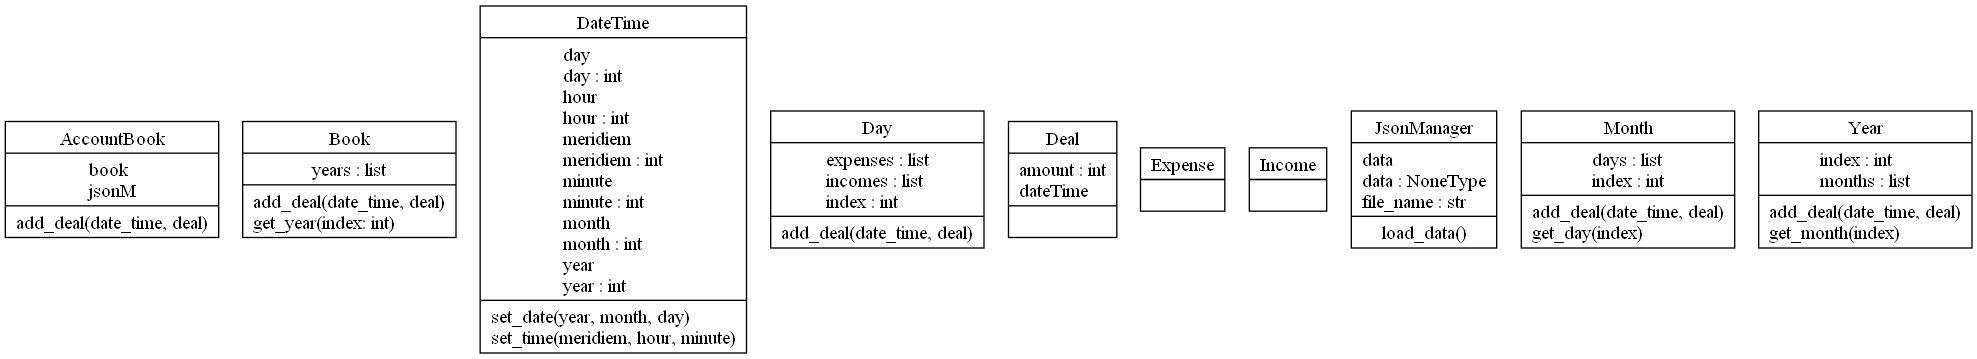
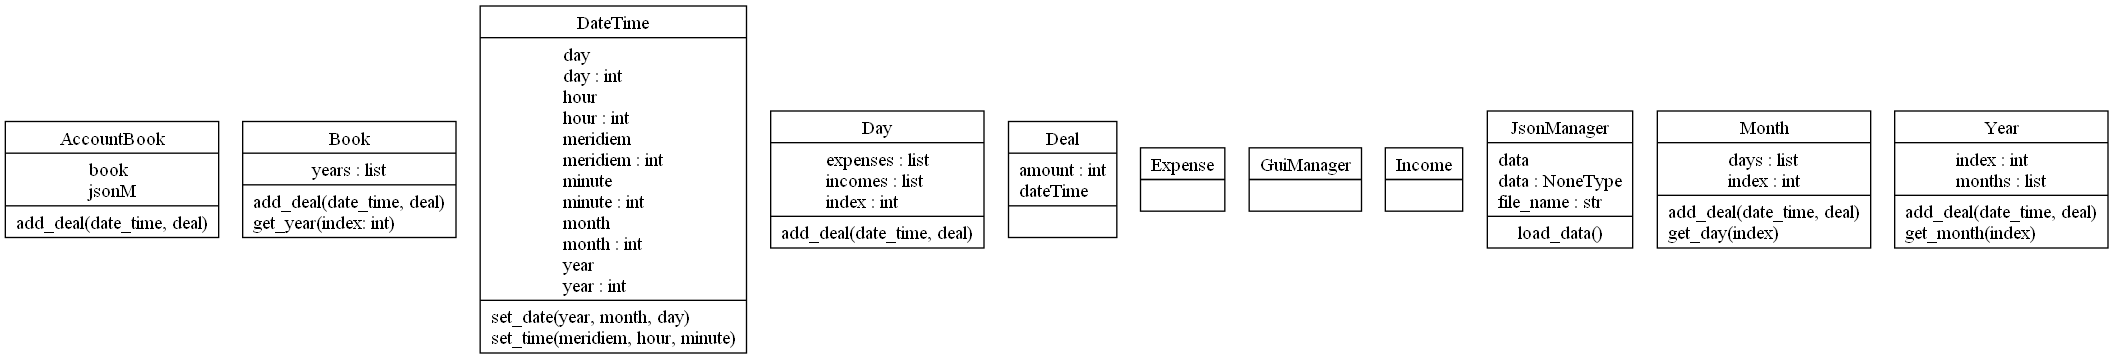
Creating simple gui.

diff --git a/GuiManager.py b/GuiManager.py
@@ -1,0 +1,52 @@
+
+from GuiWidgetHelper import *
+from PyQt5.QtCore import Qt, QDate
+from PyQt5.QtGui import QIcon
+import sys
+from AccountBook import AccountBook
+
+class GuiManager(QWidget):
+	def __init__(self):
+		self.ac = AccountBook()
+		self.__init_window()
+		self.__init_layout()
+
+	def __init_window(self):
+		super().__init__()
+
+	def __init_layout(self):
+
+		hbox = QHBoxLayout()
+		hbox.addLayout(self.__initCalenderLayout())
+		hbox.addLayout(self.__initInputLayout())
+		self.setLayout(hbox)
+
+	def __initInputLayout(self):
+		vbox = QVBoxLayout()
+		vbox.addLayout(createLabelAndLineEditLayout("금액: ",limit="int"))
+		return vbox
+
+
+	def __initCalenderLayout(self):
+		self.cal = QCalendarWidget(self)
+		self.cal.setGridVisible(True) #날짜 사이 그리드 표시
+		self.cal.clicked[QDate].connect(self.showDate) #날짜 클릭하면 show date 함수 호출
+
+		self.lbl = QLabel(self)
+		self.lbl = QLabel(self)
+		date = self.cal.selectedDate() #현재 선택된 날짜 정보(디폴트는 현재 날짜) 라벨에 표시
+		self.lbl.setText(date.toString())
+
+		vbox = QVBoxLayout()
+		vbox.addWidget(self.cal)
+		vbox.addWidget(self.lbl)
+		return vbox
+	
+#위젯과 연결된 함수
+	def showDate(self, date):
+		self.lbl.setText(date.toString())
+
+app = QApplication(sys.argv)
+win = GuiManager()
+win.show()
+app.exec_()

diff --git a/main.py b/main.py
@@ -1,11 +1,20 @@
-from AccountBook import AccountBook
-from DateTime import DateTime
-from Expense import Expense
+# from AccountBook import AccountBook
+# from DateTime import DateTime
+# from Expense import Expense
+import sys 
+from PyQt5.QtWidgets import *
+from GuiManager import GuiManager
+# ab = AccountBook()
 
-ab = AccountBook()
+# dt = DateTime()
+# dt.set_date(2024,1,1)
+# ex = Expense()
+# ab.add_deal(dt,ex)
 
-dt = DateTime()
-dt.set_date(2024,1,1)
-ex = Expense()
-ab.add_deal(dt,ex)
+
+app = QApplication(sys.argv)
+win = GuiManager()
+win.show()
+app.exec_()
+
 #pyreverse -o png ./

diff --git a/GuiWidgetHelper.py b/GuiWidgetHelper.py
@@ -1,0 +1,24 @@
+
+from PyQt5.QtWidgets import *
+from PyQt5 import QtGui
+
+def createPushBtn(name, func):
+	btn = QPushButton(name)
+	btn.clicked.connect(func)
+	return btn
+
+def createLineEdit(limit=""):
+	line_edit = QLineEdit()
+	if limit=="": pass
+	elif limit=="int": line_edit.setValidator(QtGui.QIntValidator())
+	return line_edit
+
+
+def createLabelAndLineEditLayout(label_content:str,limit = ""):
+	label = QLabel(label_content)
+	line_edit = createLineEdit(limit)
+
+	hbox = QHBoxLayout()
+	hbox.addWidget(label)
+	hbox.addWidget(line_edit)
+	return hbox

diff --git a/AccountBook.py b/AccountBook.py
@@ -8,3 +8,5 @@ class AccountBook():
 
 	def add_deal(self,date_time,deal):
 		self.book.add_deal(date_time,deal)
+	
+	def sample(self): print("sample")
